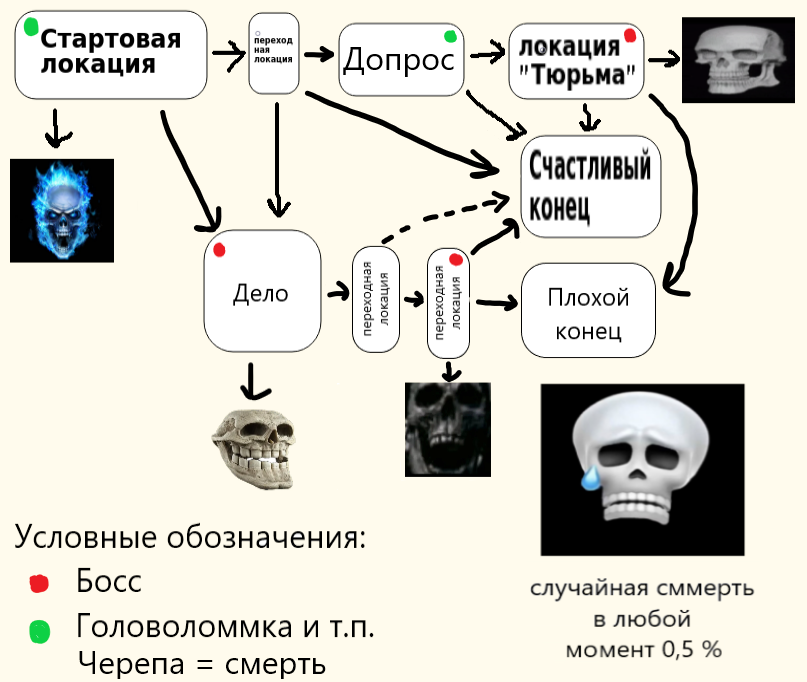
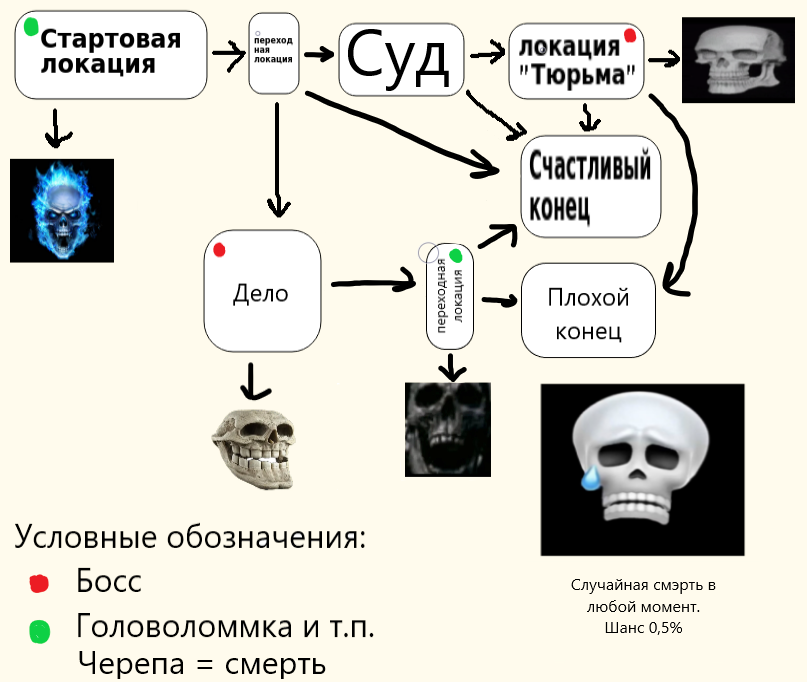
Add files via upload

diff --git a/Text quest & engine/main.py b/Text quest & engine/main.py
@@ -1,23 +1,30 @@
 import json
 cur_id = "start"
 game = "0"
+text = ""
 with open("data/locations.json", encoding="utf-8") as file:
     data = json.load(file)
 while game != "1":
     name = data[cur_id]["name"]
     next = data[cur_id]["next"]
     user_next = data[cur_id]["user_next"]
-    print("Какой хотите совершить переход? Впишите номер локации.")
+    text = data[cur_id]["text"]
+    for line in text:
+        print(line)
     n = 1
     for next_id in user_next:
         print(f"{n}. {next_id}")
         n += 1
     new_cur_id = next[int(input()) - 1]
     cur_id = new_cur_id
-    if "game" in data[new_cur_id]:
-        game = data[new_cur_id]["game"]
+    if "game" in data[cur_id]:
+        game = data[cur_id]["game"]
+        text = data[cur_id]["text"]
+        for line in text:
+            print(line)
     if game == "1":
         print("Хотите сыграть снова? Пишите 'да' если хотите.")
         if input().lower() == "да":
             cur_id = "start"
             game = "0"
+    "⊡⊡⊡⊡⊡⊡⊡⊡⊡⊡⊡⊡⊡⊡⊡⊡⊡⊡⊡⊡⊡⊡⊡⊡⊡⊡⊡⊡⊡⊡\n"
